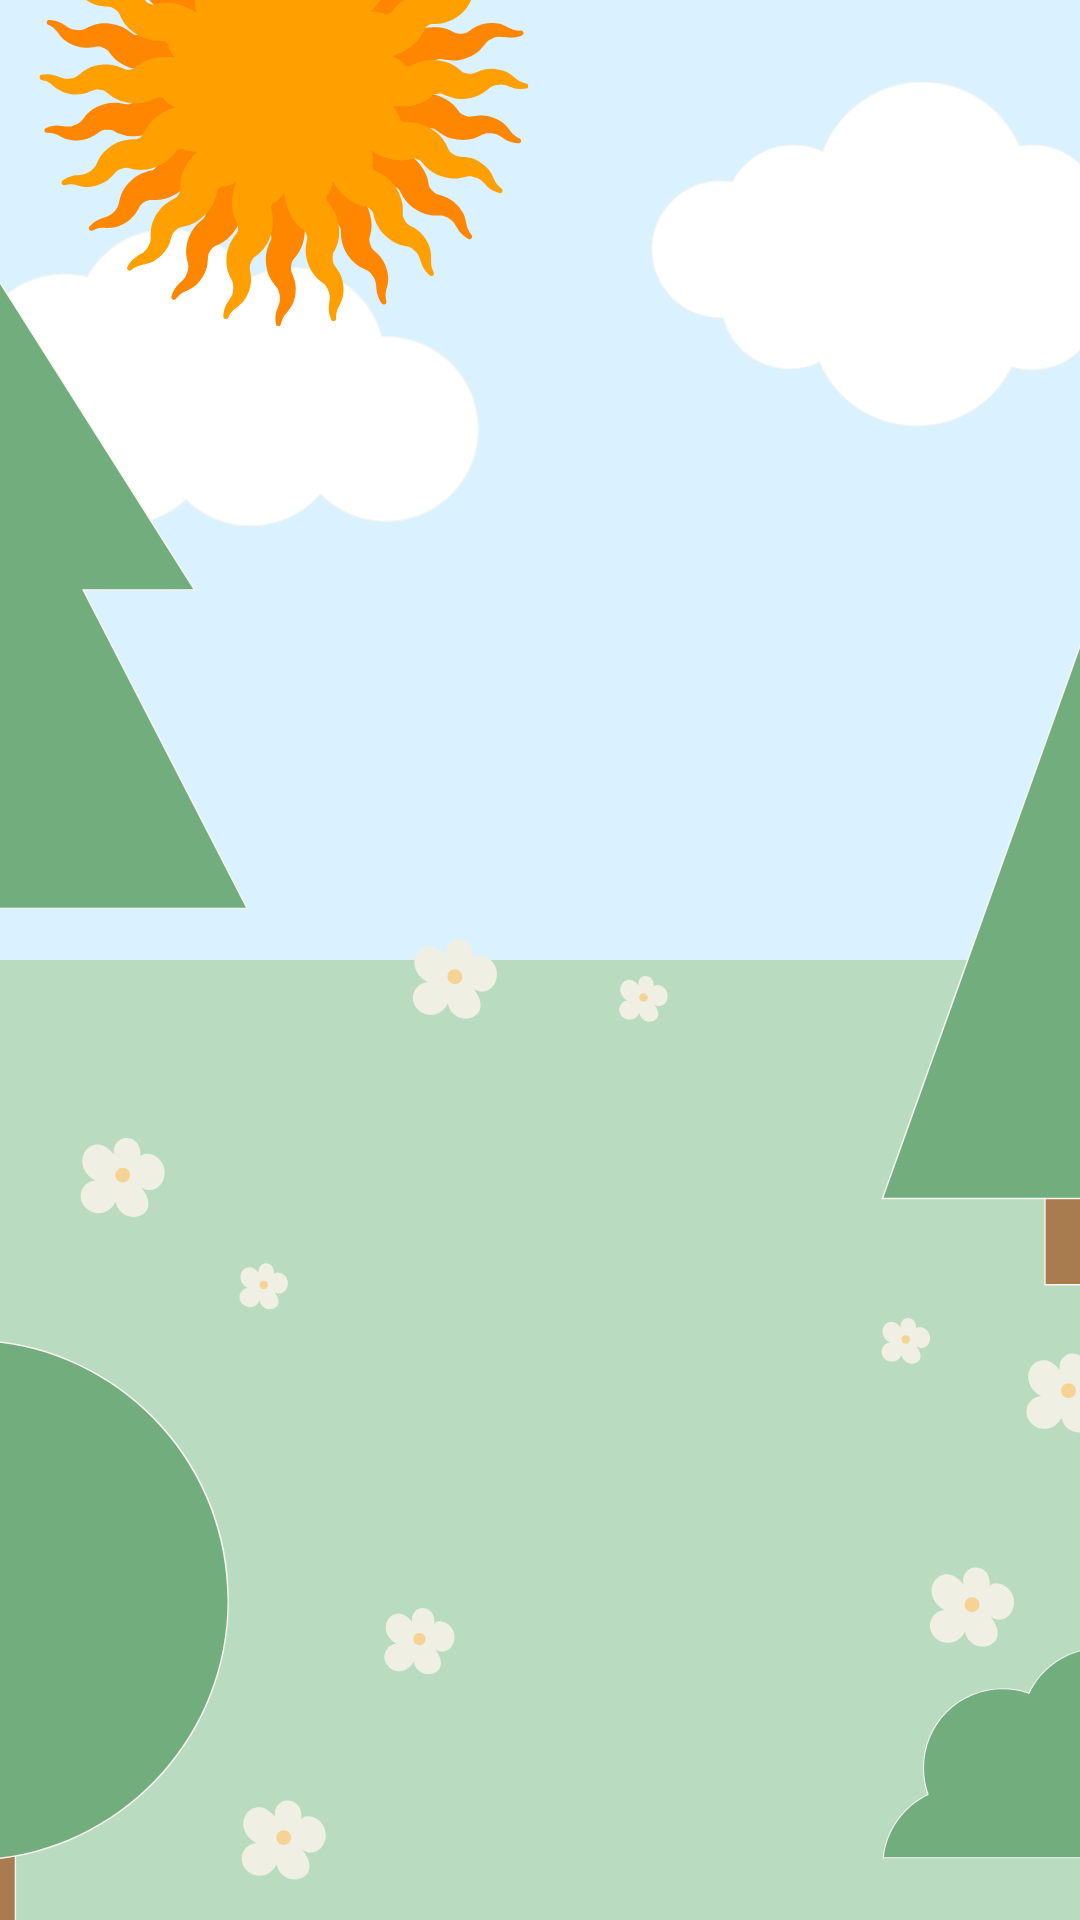
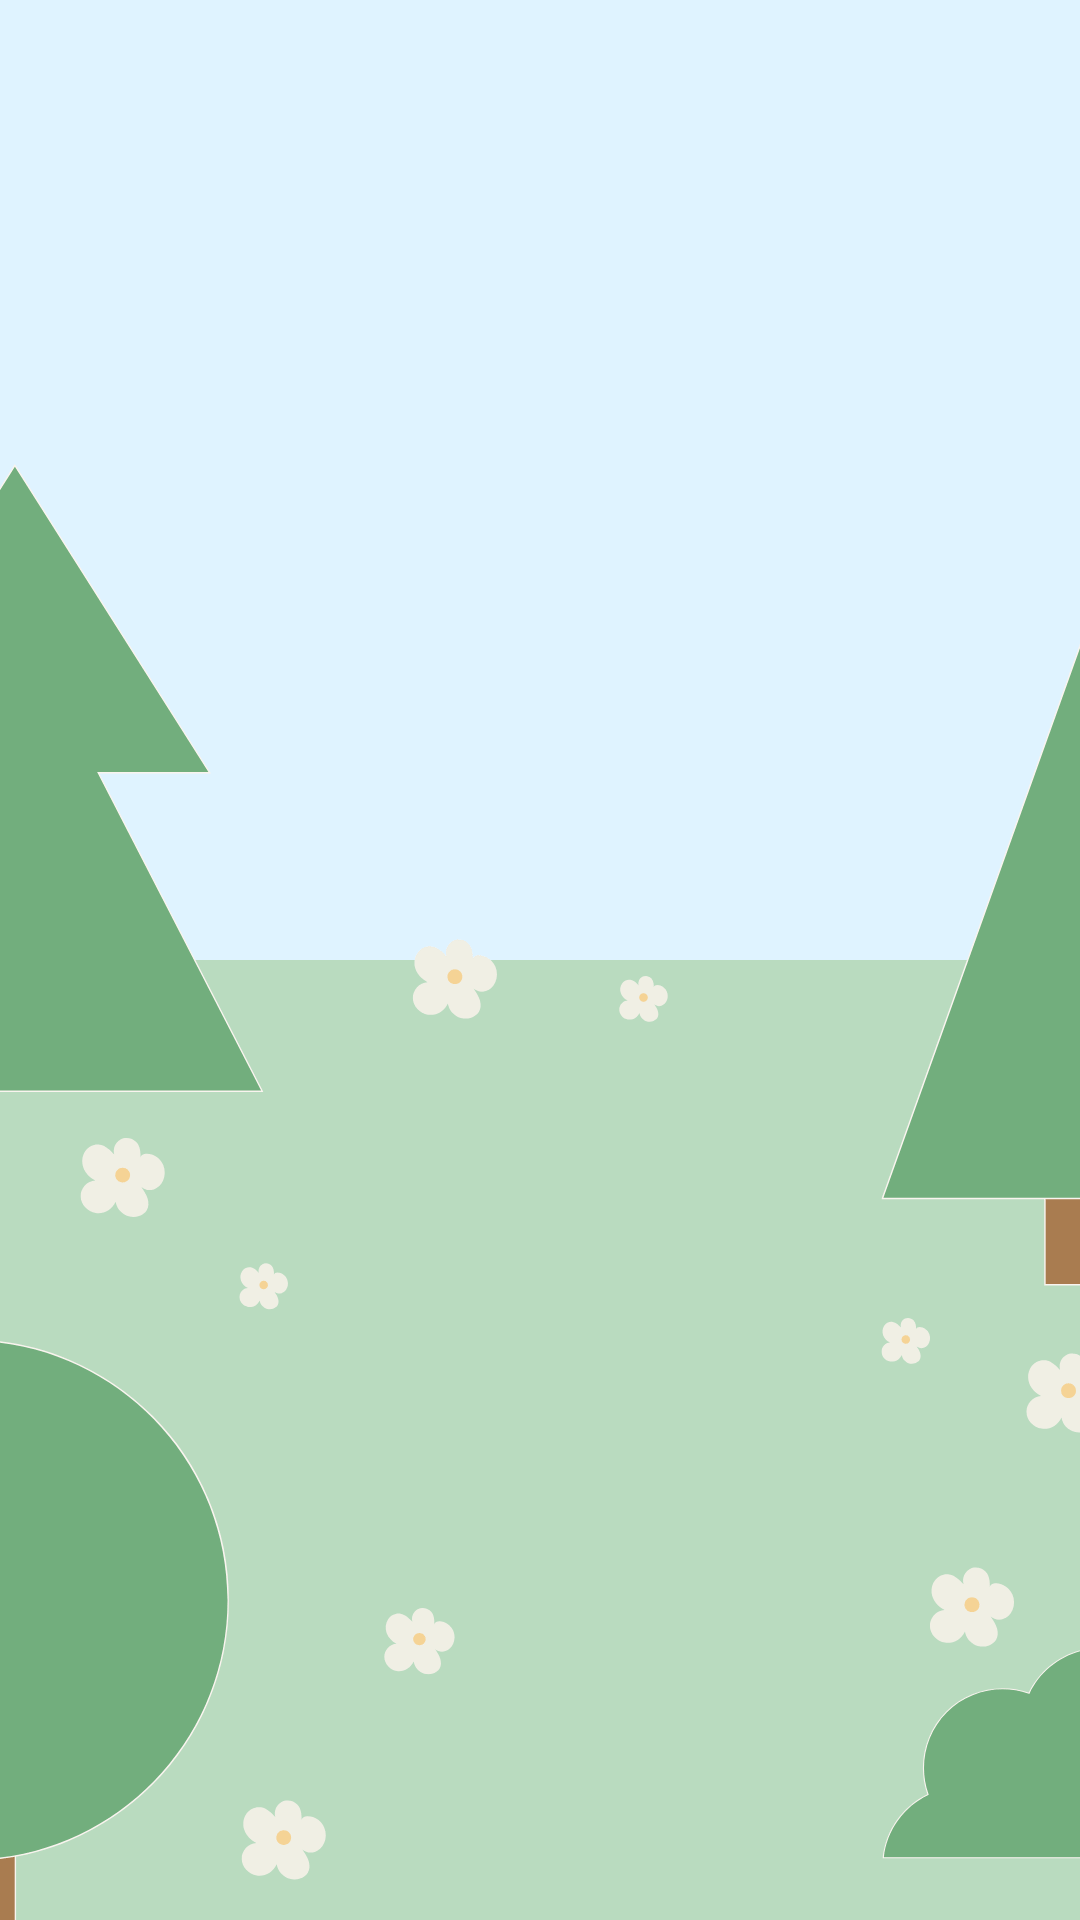
change bg

Changed region(s): [[0.0, 0.0, 0.4889, 0.3438], [0.5806, 0.0312, 1.0, 0.2188], [0.0, 0.3438, 0.2444, 0.5938]]

diff --git a/frontend/src/pages/GameOver.jsx b/frontend/src/pages/GameOver.jsx
@@ -26,8 +26,14 @@ export default function GameOver() {
   const navigate = useNavigate();
 
   return (
-    <div className="min-h-screen flex justify-center" style={{ backgroundColor: 'var(--color-bg)' }}>
-      <div className="w-full max-w-sm flex flex-col pb-24">
+    <div className="min-h-screen flex justify-center relative" style={{
+      backgroundImage: 'url(/forest2.png)',
+      backgroundSize: 'cover',
+      backgroundPosition: 'center',
+      backgroundAttachment: 'fixed',
+    }}>
+      <div className="absolute inset-0" style={{ backgroundColor: 'rgba(240, 255, 230, 0.1)' }} />
+      <div className="w-full max-w-sm flex flex-col pb-24 relative z-10">
 
         {/* Top section */}
         <div className="flex flex-col items-center gap-2 pt-8 pb-5 px-5">
@@ -96,8 +102,8 @@ export default function GameOver() {
       </div>
 
       {/* Fixed Done button */}
-      <div className="fixed bottom-0 left-0 right-0 flex justify-center px-5 pb-6 pt-3"
-        style={{ backgroundColor: 'var(--color-bg)' }}>
+      <div className="fixed bottom-0 left-0 right-0 flex justify-center px-5 pb-6 pt-3 z-20"
+        style={{ backgroundColor: 'rgba(242, 249, 236, 0.92)', backdropFilter: 'blur(8px)' }}>
         <div className="w-full max-w-sm">
           <button
             onClick={() => navigate('/')}

diff --git a/frontend/src/pages/Champion.jsx b/frontend/src/pages/Champion.jsx
@@ -23,8 +23,14 @@ export default function Champion() {
   const navigate = useNavigate();
 
   return (
-    <div className="min-h-screen flex justify-center" style={{ backgroundColor: 'var(--color-bg)' }}>
-      <div className="w-full max-w-sm flex flex-col pb-24">
+    <div className="min-h-screen flex justify-center relative" style={{
+      backgroundImage: 'url(/forest2.png)',
+      backgroundSize: 'cover',
+      backgroundPosition: 'center',
+      backgroundAttachment: 'fixed',
+    }}>
+      <div className="absolute inset-0" style={{ backgroundColor: 'rgba(240, 255, 230, 0.1)' }} />
+      <div className="w-full max-w-sm flex flex-col pb-24 relative z-10">
 
         {/* Top section */}
         <div className="flex flex-col items-center gap-2 pt-8 pb-5 px-5">
@@ -90,8 +96,8 @@ export default function Champion() {
       </div>
 
       {/* Fixed Done button */}
-      <div className="fixed bottom-0 left-0 right-0 flex justify-center px-5 pb-6 pt-3"
-        style={{ backgroundColor: 'var(--color-bg)' }}>
+      <div className="fixed bottom-0 left-0 right-0 flex justify-center px-5 pb-6 pt-3 z-20"
+        style={{ backgroundColor: 'rgba(242, 249, 236, 0.92)', backdropFilter: 'blur(8px)' }}>
         <div className="w-full max-w-sm">
           <button
             onClick={() => navigate('/')}

diff --git a/frontend/src/pages/LiveLeaderboard.jsx b/frontend/src/pages/LiveLeaderboard.jsx
@@ -36,8 +36,14 @@ export default function LiveLeaderboard() {
   }, [timeLeft]);
 
   return (
-    <div className="min-h-screen flex justify-center" style={{ backgroundColor: 'var(--color-bg)' }}>
-      <div className="w-full max-w-sm flex flex-col px-5 pt-8 pb-12 gap-5">
+    <div className="min-h-screen flex justify-center relative" style={{
+      backgroundImage: 'url(/forest2.png)',
+      backgroundSize: 'cover',
+      backgroundPosition: 'center',
+      backgroundAttachment: 'fixed',
+    }}>
+      <div className="absolute inset-0" style={{ backgroundColor: 'rgba(240, 255, 230, 0.1)' }} />
+      <div className="w-full max-w-sm flex flex-col px-5 pt-8 pb-12 gap-5 relative z-10">
 
         {/* Header */}
         <div className="flex items-center gap-2">
